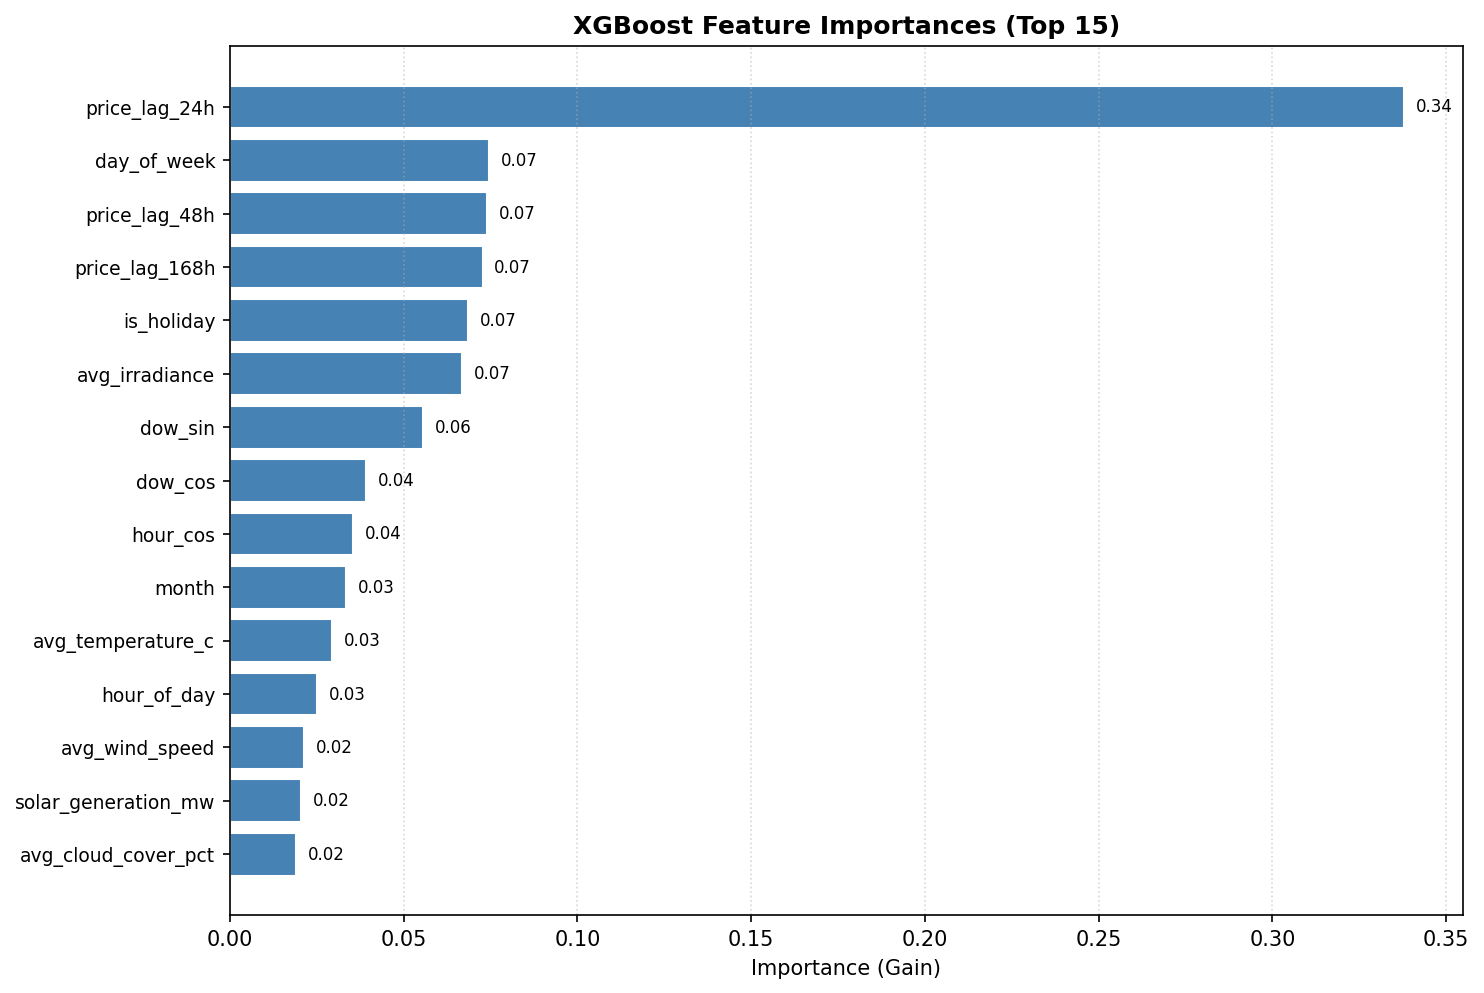
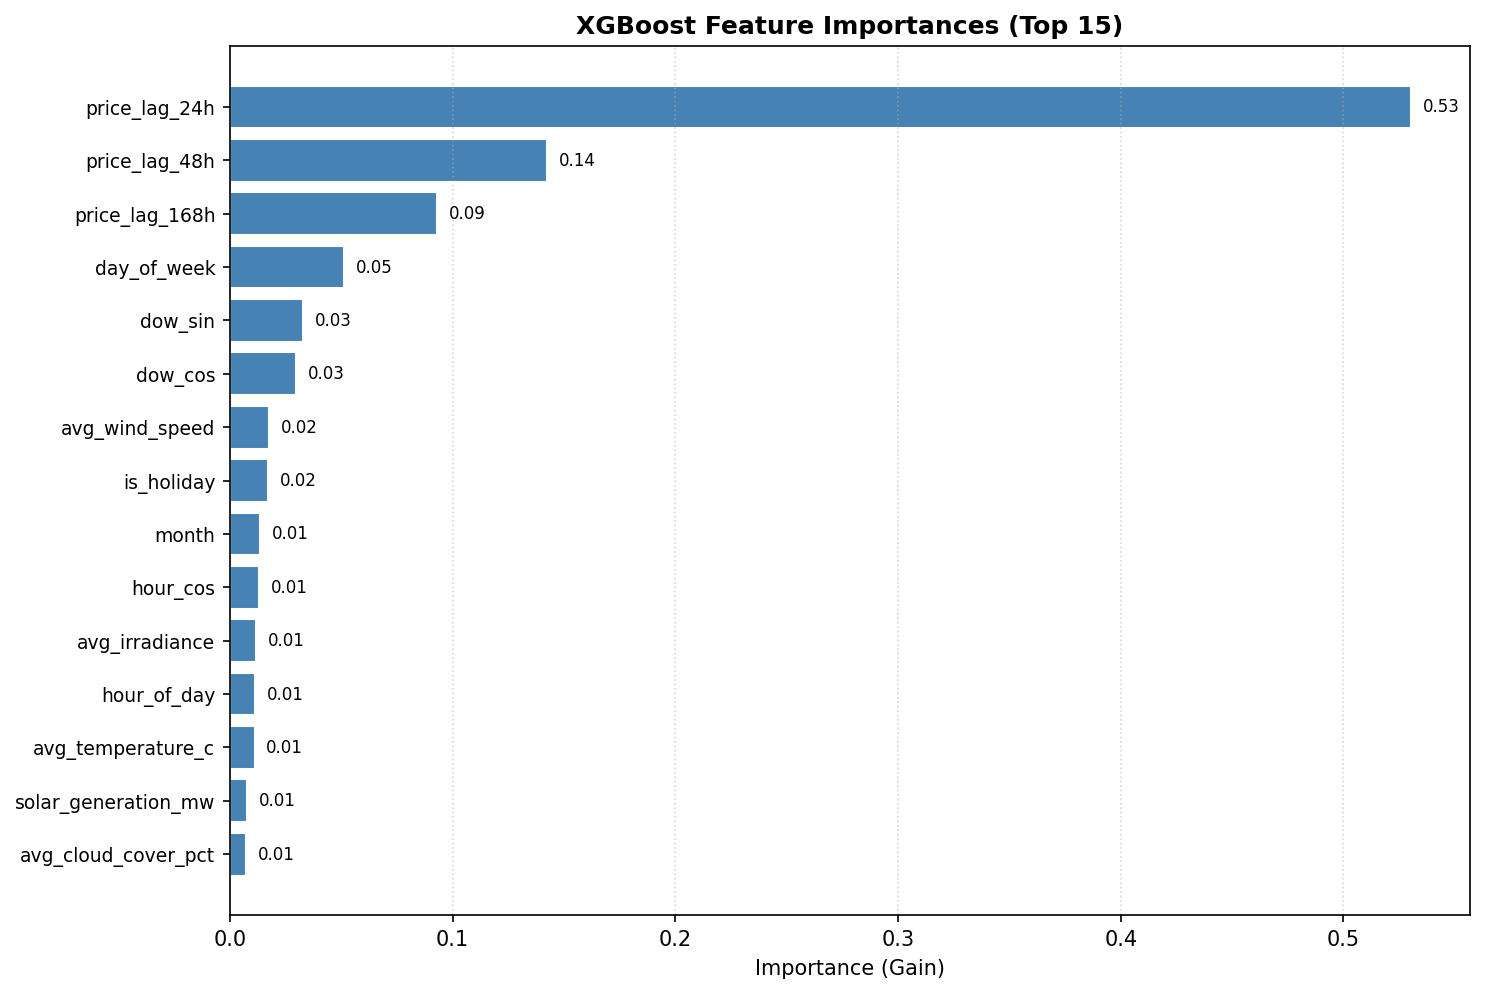
feat: train on ~6 years of history (2021+), default 2000 days; update results

diff --git a/config/settings.py b/config/settings.py
@@ -31,7 +31,7 @@ ENTSOE_API_TOKEN: str = os.getenv("ENTSOE_API_TOKEN", "")
 
 # ── Data collection coverage ─────────────────────────────────────────────────
 # How many calendar days of historical data to fetch on first run.
-INITIAL_HISTORY_DAYS: int = int(os.getenv("INITIAL_HISTORY_DAYS", "730"))
+INITIAL_HISTORY_DAYS: int = int(os.getenv("INITIAL_HISTORY_DAYS", "2000"))
 
 # ── Weather locations (Czech Republic) ───────────────────────────────────────
 # Czech electricity prices apply nationwide, so we sample multiple locations
@@ -60,4 +60,5 @@ FIGURES_DIR.mkdir(parents=True, exist_ok=True)
 
 # ── Timezone ─────────────────────────────────────────────────────────────────
 TIMEZONE: str = "Europe/Prague"  # CZ is always in one timezone (CET/CEST)
+
 

diff --git a/reports/evaluation_results.md b/reports/evaluation_results.md
@@ -1,4 +1,4 @@
-# Evaluation Results
+# Evaluation Results
 
 > Generated by `python scripts/run_pipeline.py --mode full`. Figures are produced by
 > [`scripts/generate_results_plots.py`](../scripts/generate_results_plots.py).
@@ -8,7 +8,7 @@
 | Item | Value |
 |------|-------|
 | Target | OTE-CR day-ahead price, hourly average (EUR/MWh) |
-| Price history | 2025-11-01 → 2026-11-02 (real OTE data) |
+| Price history | 2021-01-01 → 2026-11-02 (real OTE data, 51,156 hourly rows, ~5.8 years incl. the 2022 energy crisis) |
 | Weather | Open-Meteo archive, mean of Praha / Brno / Ostrava / Plzeň |
 | Generation (solar / wind) | **synthetic** (no ENTSO-E token configured) |
 | Model | XGBoost, early stopping, version `1.0.0` |
@@ -18,15 +18,12 @@
 
 | Metric | Value |
 |--------|-------|
-| MAE | 68.9 EUR/MWh |
-| RMSE | 87.3 EUR/MWh |
-| MAPE | 28.5 % |
-| Directional accuracy | 62.7 % |
+| MAE | 35.4 EUR/MWh |
+| RMSE | 45.9 EUR/MWh |
+| MAPE | 16.1 % |
+| Directional accuracy | 69.9 % |
 
-Reading the numbers: the hold-out window contains a price level shift (late-October
-prices rise above 250 EUR/MWh) that the model has not seen, so it under-predicts the
-level while following the intraday shape (see Figure 1). Expect better numbers with a
-real ENTSO-E token (actual wind/solar), gas/CO₂ price features and periodic retraining.
+Walk-forward CV over the full history gives a mean MAE of 21.2 EUR/MWh (RMSE 31.2). Extending the training history from 1 year to ~6 years roughly halved the hold-out error (MAE 68.9 → 35.4): the model now follows both the level and the intraday shape (Figure 1). The largest remaining misses are price spikes. Real ENTSO-E generation, gas/CO₂ price features and periodic retraining are the next likely gains.
 
 ## Figures
 
@@ -46,3 +43,4 @@ real ENTSO-E token (actual wind/solar), gas/CO₂ price features and periodic re
 High solar irradiance (`avg_irradiance`, red) pushes the predicted price down, as expected.
 
 ![SHAP summary](figures/shap_summary.png)
+

diff --git a/README.md b/README.md
@@ -1,4 +1,4 @@
-# Energy Price Prediction (CZ day-ahead market)
+# Energy Price Prediction (CZ day-ahead market)
 
 Forecasts hourly OTE-CR day-ahead electricity prices from weather (Open-Meteo, four Czech
 cities), renewable generation (ENTSO-E) and calendar features, with a proper backtesting
@@ -48,7 +48,7 @@ tests/             pytest suite
 
 ```bash
 pip install -r requirements.txt
-python scripts/run_pipeline.py --mode full --start-date 2025-11-01   # ingest→train→predict→evaluate→plots
+python scripts/run_pipeline.py --mode full --start-date 2021-01-01   # ingest→train→predict→evaluate→plots
 streamlit run src/dashboard/app.py
 pytest
 ```
@@ -80,3 +80,4 @@ Optional: `ENTSOE_API_TOKEN` (free at transparency.entsoe.eu), `DATABASE_URL`
 ## Scheduling
 
 See [.github/workflows/daily_pipeline.yml](.github/workflows/daily_pipeline.yml): 11:00 UTC predicts tomorrow, 14:00 UTC ingests OTE results, evaluates and refreshes plots. Copy [.env.example](.env.example) for configuration.
+
